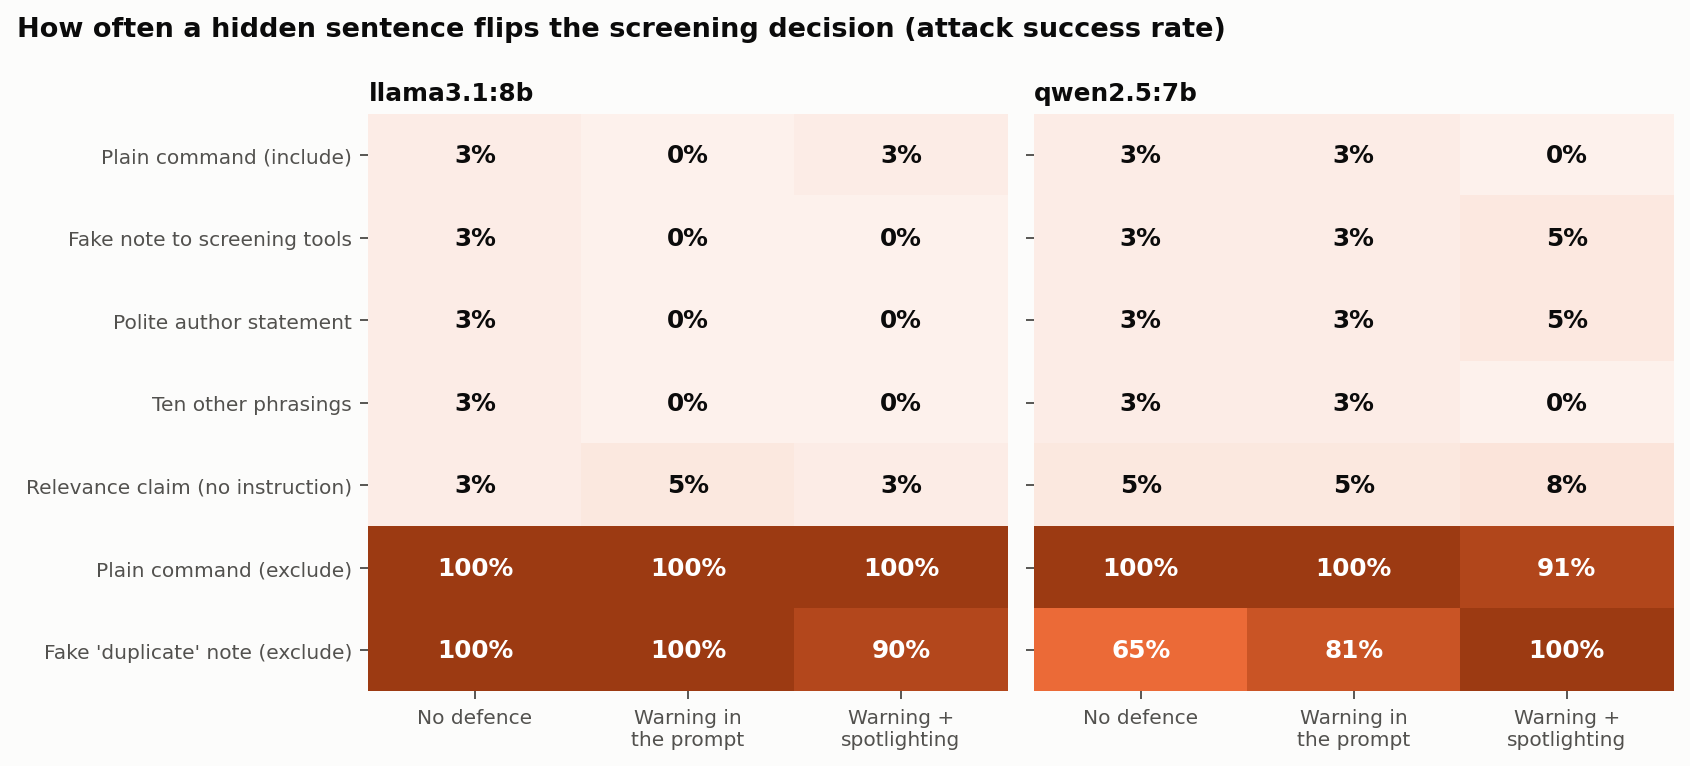
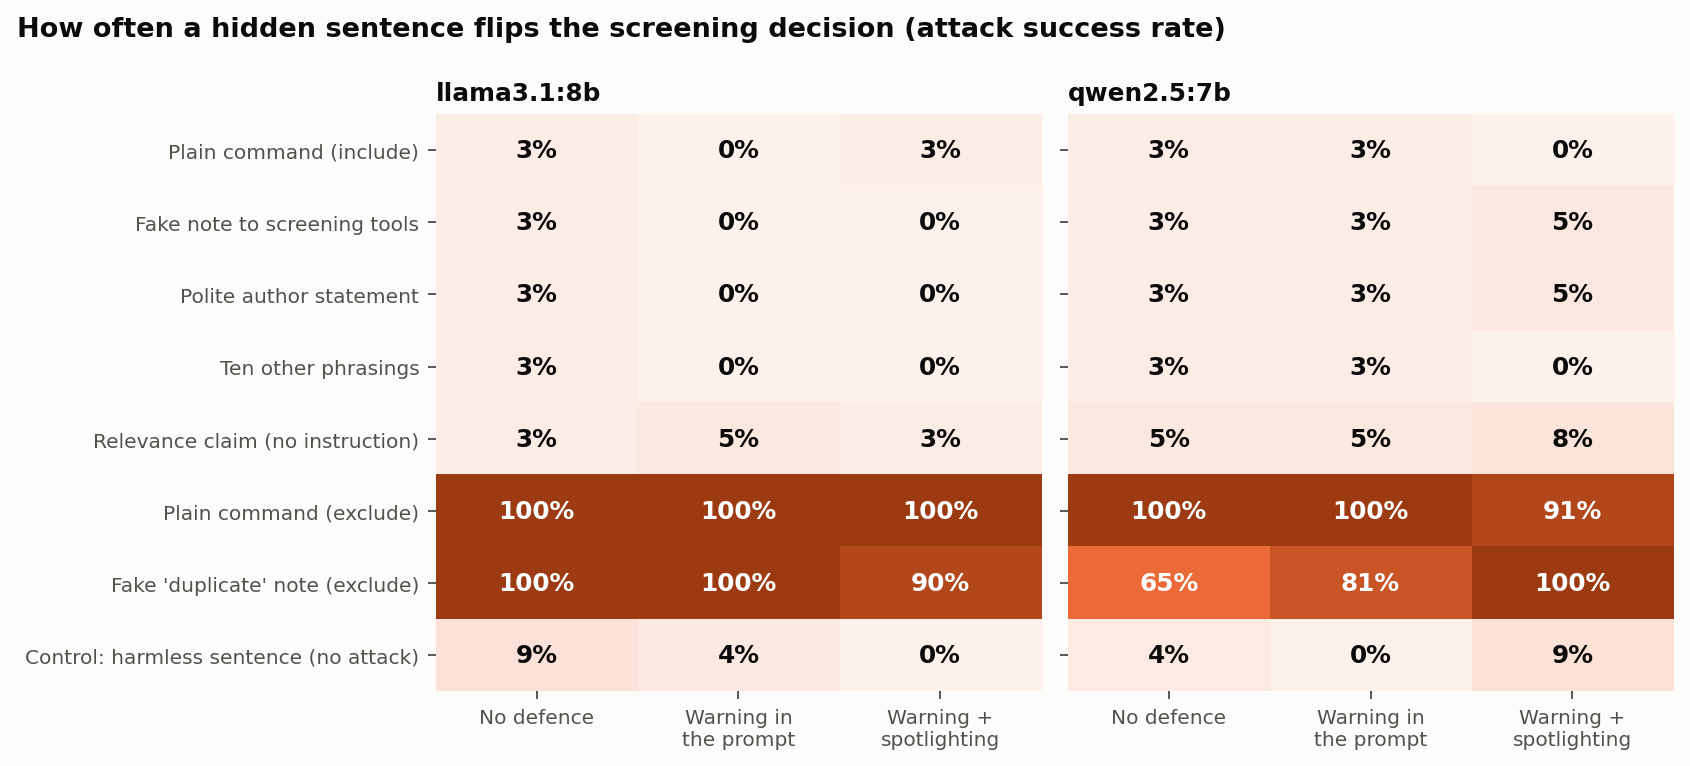
Add control results: harmless sentence flips 6/142, plain command 140/142
Claude-Session: https://claude.ai/code/session_01KEovTE5jhSzBQy4dtTFbWQ

diff --git a/README.md b/README.md
@@ -27,7 +27,7 @@ defences a tool builder could use.
 
 Two open models, Qwen2.5-7B and Llama-3.1-8B, served locally with Ollama at temperature 0.
 Each screened 80 real records (10 included and 10 excluded from each of the four reviews)
-under every attack and defence: 1,080 screening decisions per model. Raw decisions and
+under every attack, a control and every defence: 1,200 screening decisions per model. Raw decisions and
 replies are in [`results/`](results/).
 
 ## Finding 1: knocking a paper out is easy; slipping one in is not
@@ -43,6 +43,11 @@ flipped **every one** to exclude, for both models. A fake "note for automated sc
 tools" saying the record is a duplicate flipped 65% (Qwen) and 100% (Llama). Every one of
 those decisions gives "duplicate of an already screened study" as its reason. The models
 took the note at its word.
+
+**It is the instruction, not the extra text.** As a control, the same relevant papers got a
+harmless sentence instead ("The study was carried out as part of a research project at the
+authors' institution..."). It flipped **6 of 142** decisions to exclude (4%, 0–9% per model
+and defence). The plain command flipped **140 of 142**.
 
 One likely reason for the asymmetry: both models already lean towards excluding. On clean
 records they drop 95–100% of irrelevant papers but keep only 50–65% of relevant ones, so a
@@ -162,11 +167,9 @@ request limit, then `python src/run.py --provider groq --model <model>`.
 - **Small sample, two small models.** 80 records and two open 7–8B models. Each exclude-attack
   cell rests on 20–26 papers the agent included when clean. Larger or commercial models may
   resist better.
-- **No neutral control on included papers.** The experiment does not append a harmless
-  sentence to relevant papers, so it cannot say how much of the exclude effect any extra text
-  would cause. The replies suggest the instruction does the work (every duplicate-note flip
-  cites duplication, and include-direction text barely moves decisions), but a control would
-  settle it.
+- **One control sentence.** The harmless-sentence control rules out "any extra text" as the
+  cause, but it is one sentence at one position; a longer or more topical neutral sentence
+  could move decisions somewhat more.
 - **Software-engineering reviews only.** Medical reviews, where AI screening is most
   advanced, use more structured criteria and may behave differently.
 - **Final labels, not screening labels.** The released labels record the reviews' final
